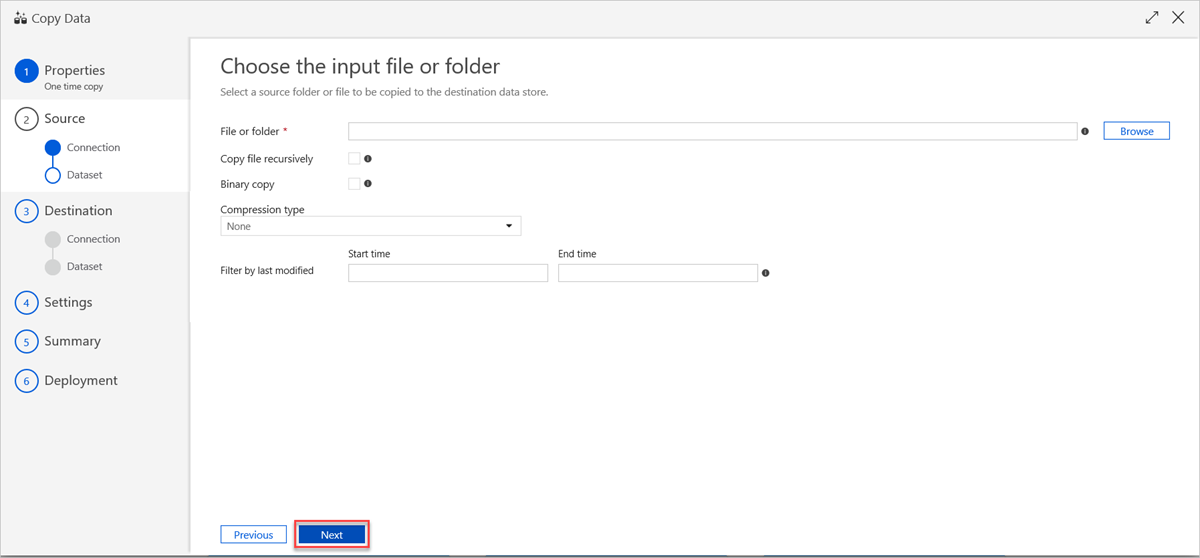
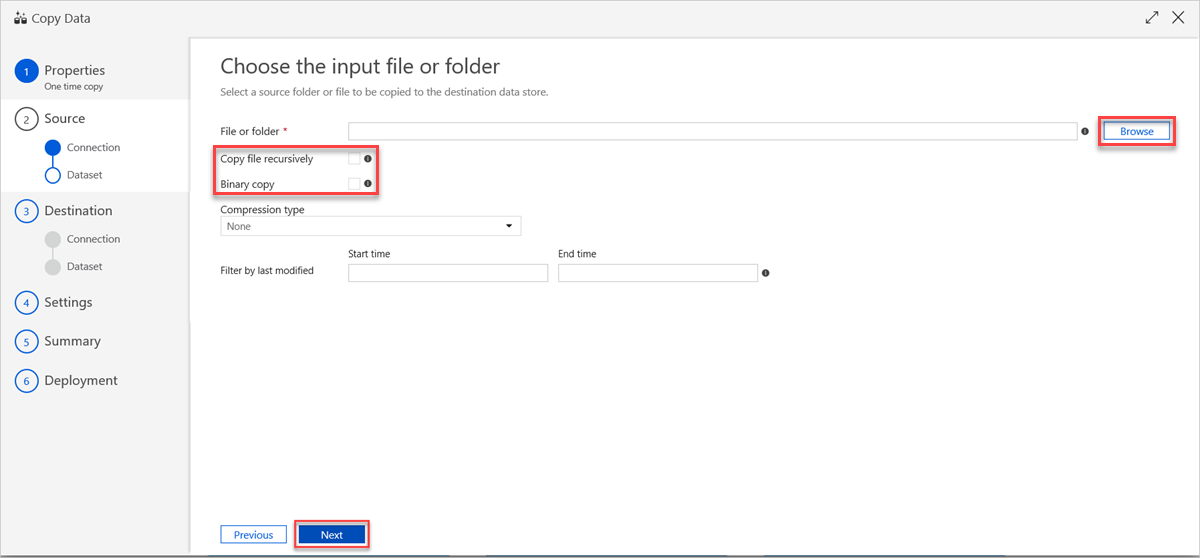
updated png files and text

Changed region(s): [[0.1542, 0.2437, 0.3392, 0.3656], [0.8942, 0.1828, 0.9867, 0.2742]]

diff --git a/data-explorer/data-factory-load-data.md b/data-explorer/data-factory-load-data.md
@@ -67,7 +67,7 @@ There are two ways to load data into Azure Data Explorer using Azure Data Factor
 
 1. In the **Let's get started** page, select the **Copy Data** tile to launch the Copy Data tool.
 
-   ![Copy Data tool tile](media/data-factory-load-data/copy-data-tool-tile.png)
+   ![Copy data tool tile](media/data-factory-load-data/copy-data-tool-tile.png)
 
 1. In the **Properties** page, specify **Task name** and select **Next**.
 
@@ -99,14 +99,10 @@ There are two ways to load data into Azure Data Explorer using Azure Data Factor
 1. In the **Choose the input file or folder** page:
 
     1. Browse to the folder/file that you want to copy. Select the folder/file.
-    1. Specify your file settings.
+    1. Select the copy behavior by selecting the **Copy files recursively** and **Binary copy** (copy files as-is) options.
     1. Select **Next**.
 
     ![Choose input file or folder](media/data-factory-load-data/source-choose-input-file.png)
-
-1. Select the copy behavior by selecting the **Copy files recursively** and **Binary copy** (copy files as-is) options. Select **Next**.
-
-    ![Specify output folder](media/data-factory-load-data/specify-binary-copy.png)
 
 ## Create a service principal
 
